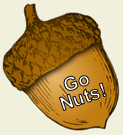
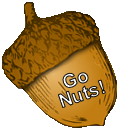
-updated acorn images to have transparent background -fixed my name

diff --git a/credits.md b/credits.md
@@ -31,7 +31,7 @@ Also this site and its contents were made possible through the efforts of:
  * [Octobi Wan Catnobi](https://github.com/octobiwancatnobi)
  * [Zippy Z Squirrel](https://github.com/zippyzsquirrel)
  * [Dan Ben](https://github.com/dben1713)
- * [Maria Jeanette](https://github.com/mjeannet)
+ * [Maria Jeannet](https://github.com/mjeannet)
  * [Melissa Mosser](https://github.com/SassyBA)
  * [Jim Kohl](https://github.com/jimkohl)
  * Jim Fox

diff --git a/README.md b/README.md
@@ -131,7 +131,7 @@ A big thanks to the following folks who've helped shape the ideas and content th
 
 * Jim Fox
 * Melissa Mosser
-* Maria Jeannette
+* Maria Jeannet
 * Dan Ben
 * Isaac Higgins
 * Michael Lively
